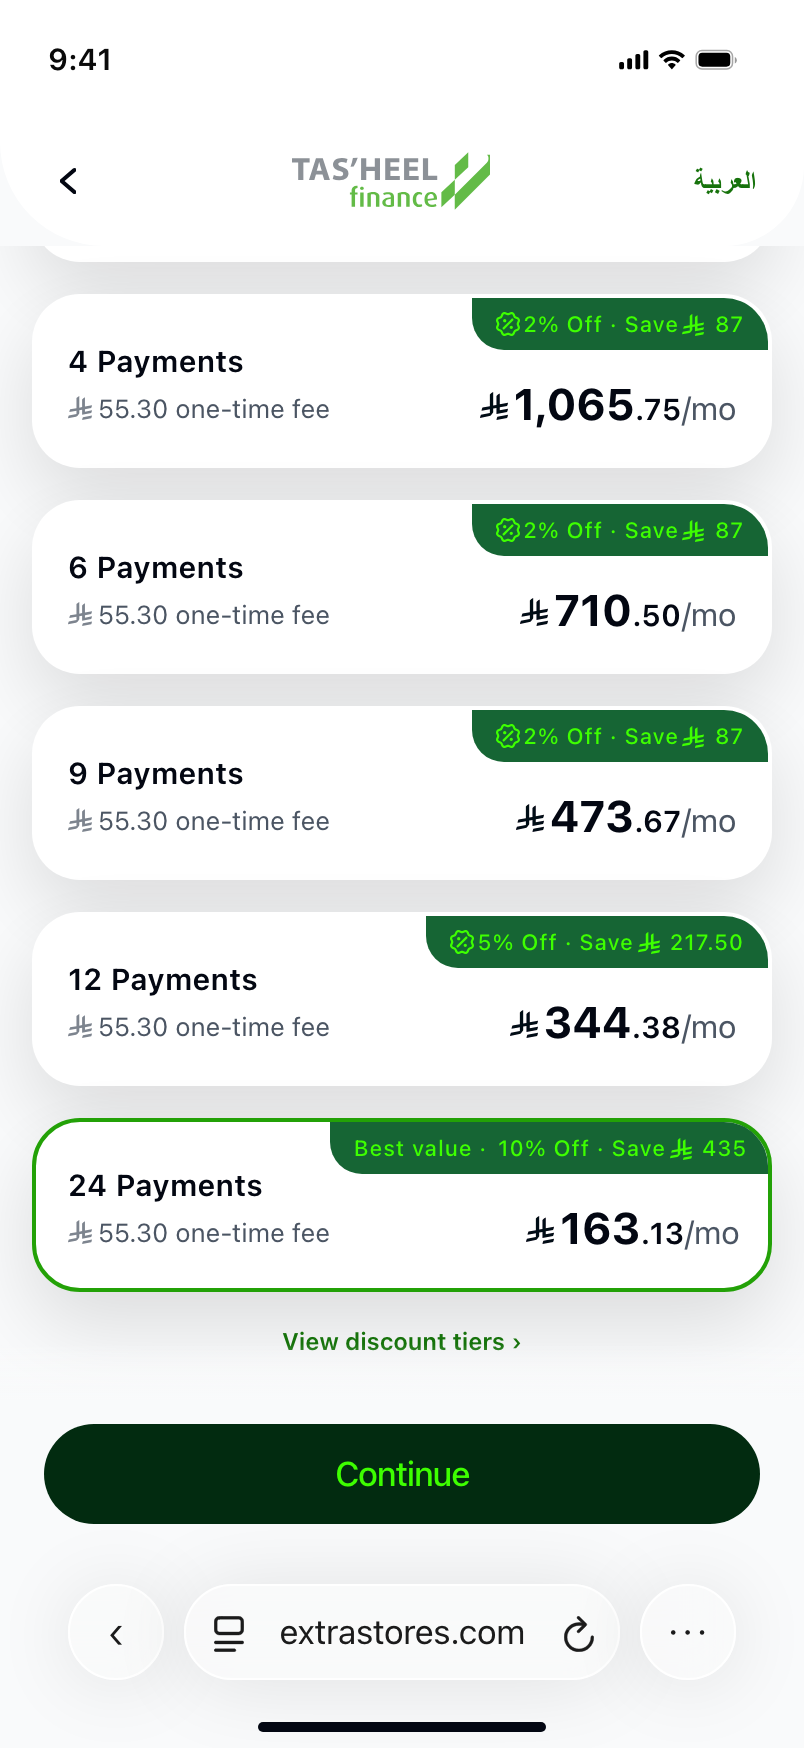
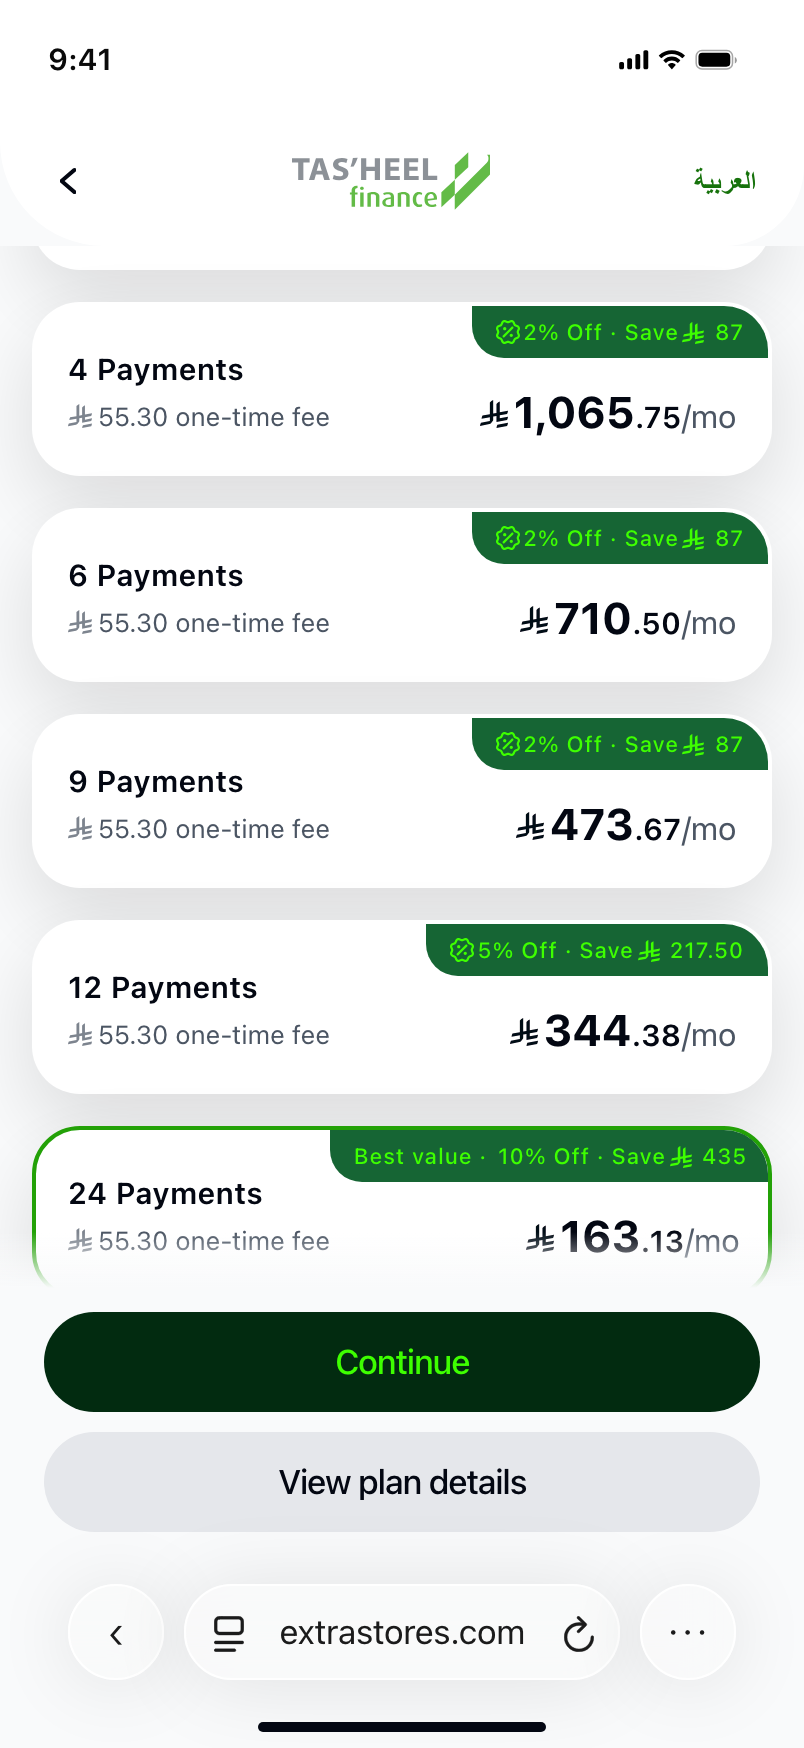
Pin the CTA to the true viewport bottom; add plan details to the list
The footer pinned through ViewportLayer, which zooms its own box, so
'bottom: 0' resolved to viewportHeight * zoom and the button floated a
scale-dependent gap above Safari's chrome. New BottomPinned portal is
unzoomed and anchored with env(safe-area-inset-bottom) — exact on any
device width. Full-width bars don't need design-scale fidelity.

Also dropped the fake Safari bar from the device footer (it collapses to
an empty 24px spacer there) and gave the plan list a 'View plan details'
secondary CTA, matching the stepper; it appears once a plan is chosen and
opens the same details + schedule sheets.

Verified iPhone 13 emulation: 12px below the last button, both CTAs in
viewport after a 3000px scroll, 0 page errors. Desktop path unchanged.

Changed region(s): [[0.0311, 0.1236, 0.9639, 0.8959], [0.0311, 0.6487, 0.0622, 0.6796]]

diff --git a/App.tsx b/App.tsx
@@ -957,6 +957,28 @@ function ActionTile({ label, asset, testID, onPress }: { label: string; asset: F
 
 // Escapes RNW's ScrollView containing-block (its identity transform captures any
 // fixed descendant) by portaling viewport-pinned UI to document.body on device.
+// Pins a bar to the true bottom of the visual viewport on device.
+// Deliberately NOT zoomed like ViewportLayer: that layer scales its own box, so
+// `bottom: 0` inside it resolves to viewportHeight * zoom and the bar floats a
+// scale-dependent distance above Safari's chrome. Full-width bars don't need
+// design-scale fidelity, so real CSS pixels + the safe-area inset is exact.
+function BottomPinned({ children }: { children: React.ReactNode }) {
+  if (SHOW_FAKE_CHROME || typeof document === 'undefined') return <>{children}</>;
+  return createPortal(
+    createElement('div', {
+      style: {
+        position: 'fixed',
+        left: 0,
+        right: 0,
+        bottom: 0,
+        zIndex: 900,
+        paddingBottom: 'env(safe-area-inset-bottom, 0px)',
+      },
+    }, <View pointerEvents="box-none">{children}</View>),
+    document.body,
+  );
+}
+
 function ViewportLayer({ children }: { children: React.ReactNode }) {
   const { width } = useWindowDimensions();
   useEffect(() => {
@@ -1802,7 +1824,21 @@ function WcPlanList({ setRoute, months, setMonths }: { setRoute: (r: RouteKey) =
       >
         <Text style={[styles.wcGreenCtaText, chosen === null && styles.wcCtaDisabledText]}>Continue</Text>
       </Pressable>
-      <SafariCompactBar url="extrastores.com" onBack={() => setRoute('wcDemo')} />
+      {/* Parity with the stepper — but only once a plan exists to detail. */}
+      {chosen !== null ? (
+        <Pressable
+          testID="wc-plans-details"
+          style={[styles.wcGreyCta, styles.wcPlansCta]}
+          onPress={() => setSheet('details')}
+          accessibilityRole="button"
+          accessibilityLabel={`View details for ${chosen} payments`}
+        >
+          <Text style={styles.wcGreyCtaText}>View plan details</Text>
+        </Pressable>
+      ) : null}
+      {/* The fake Safari bar is desktop-only chrome; on device it collapses to an
+          empty spacer that would just push the CTA up off the bottom edge. */}
+      {onDevice ? null : <SafariCompactBar url="extrastores.com" onBack={() => setRoute('wcDemo')} />}
     </View>
   );
   const list = (
@@ -1849,8 +1885,10 @@ function WcPlanList({ setRoute, months, setMonths }: { setRoute: (r: RouteKey) =
           )}
           {onDevice ? null : footer}
         </ScreenFade>
-        {onDevice ? <ViewportLayer>{footer}</ViewportLayer> : null}
+        {onDevice ? <BottomPinned>{footer}</BottomPinned> : null}
         {sheet === 'cart' ? <WcCartSheet onClose={() => setSheet(null)} /> : null}
+        {sheet === 'details' && chosen !== null ? <WcPlanDetailsSheet months={chosen} onClose={() => setSheet(null)} onViewSchedule={() => setSheet('schedule')} onContinue={() => setRoute('wcPayment')} /> : null}
+        {sheet === 'schedule' && chosen !== null ? <WcFullScheduleSheet months={chosen} onClose={() => setSheet(null)} /> : null}
         {sheet === 'discounts' ? <WcDiscountsSheet months={chosen} onClose={() => setSheet(null)} onSelect={(m) => { setMonths(m); setSheet(null); }} /> : null}
         <View style={styles.wcStatusOverlay} pointerEvents="none"><StatusStrip pointerEvents="none" /></View>
       </View>
@@ -4718,12 +4756,13 @@ const styles = StyleSheet.create({
   wcPlansSub: { fontSize: 14, lineHeight: 18, color: muted, letterSpacing: -0.08, textAlign: 'center' },
   wcPlansSubStrong: { fontWeight: '600', color: '#15803d' },
   wcPlansList: { gap: 16 },
-  wcPlansFooter: { paddingTop: 12, gap: 14, alignItems: 'center', backgroundColor: canvas },
+  wcPlansFooter: { paddingTop: 12, gap: 10, alignItems: 'center', backgroundColor: canvas },
   // On device the footer is pinned to the visual viewport by ViewportLayer.
-  wcPlansFooterPinned: { position: 'absolute', left: 0, right: 0, bottom: 0, paddingHorizontal: 16, paddingBottom: 18 },
+  // BottomPinned owns the anchoring; the footer just needs its own padding.
+  wcPlansFooterPinned: { paddingHorizontal: 16, paddingBottom: 12, gap: 0 },
   wcPlansFade: { position: 'absolute', top: -28, left: 0, right: 0, height: 28 },
   // Room for the pinned footer so the last card is never trapped behind it.
-  wcPlansContentDevice: { paddingBottom: 140 },
+  wcPlansContentDevice: { paddingBottom: 190 },
   wcPlansCta: { width: '100%', maxWidth: 358, alignSelf: 'center' },
   wcPlanRow: { backgroundColor: '#fff', borderRadius: 24, overflow: 'hidden', flexDirection: 'row', alignItems: 'center', justifyContent: 'space-between', paddingLeft: 16, borderWidth: 2, borderColor: 'transparent', shadowColor: '#000', shadowOpacity: 0.12, shadowRadius: 40, shadowOffset: { width: 0, height: 16 } },
   wcPlanRowOffer: { height: 87 },
